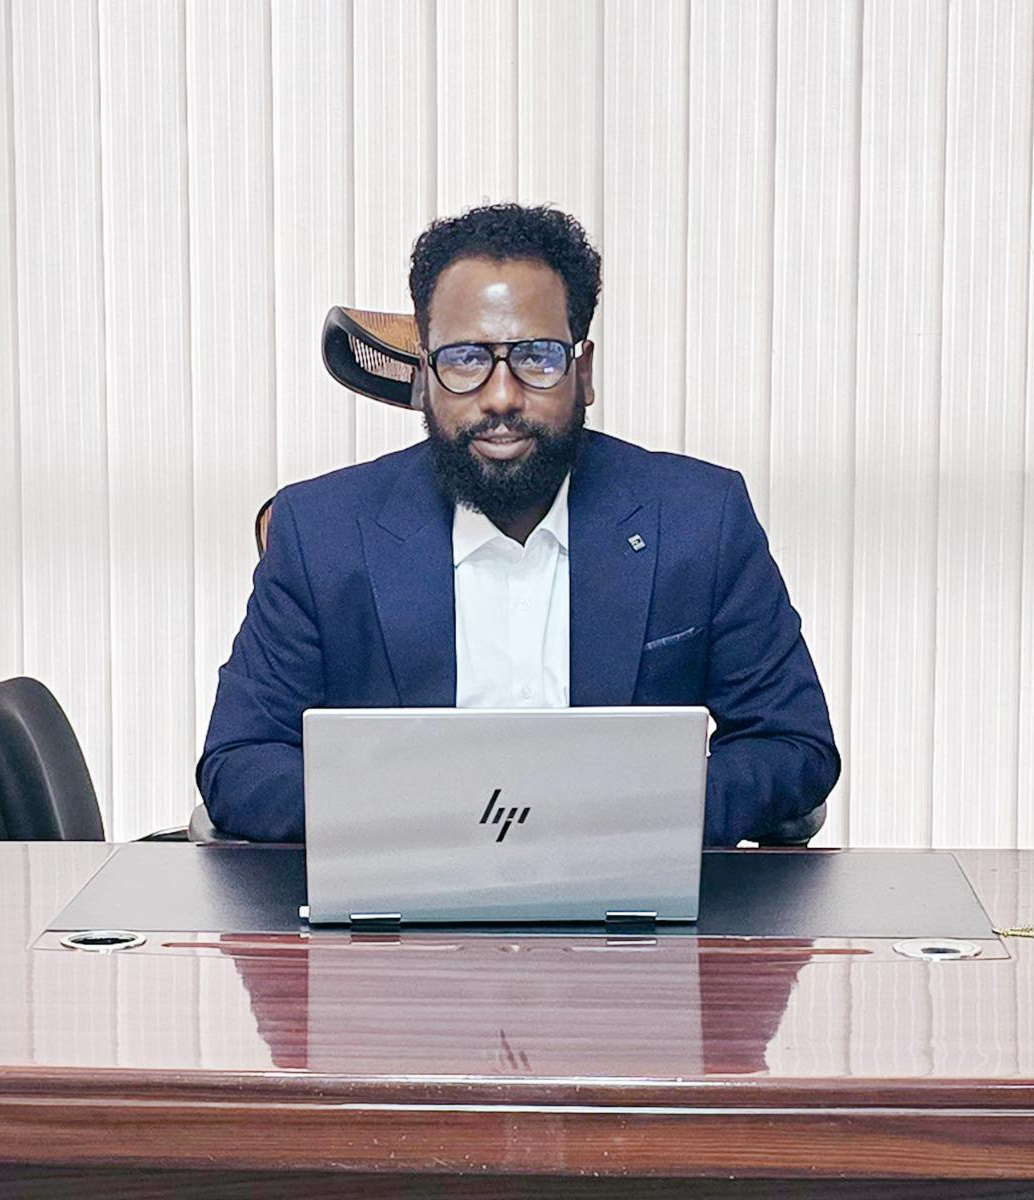
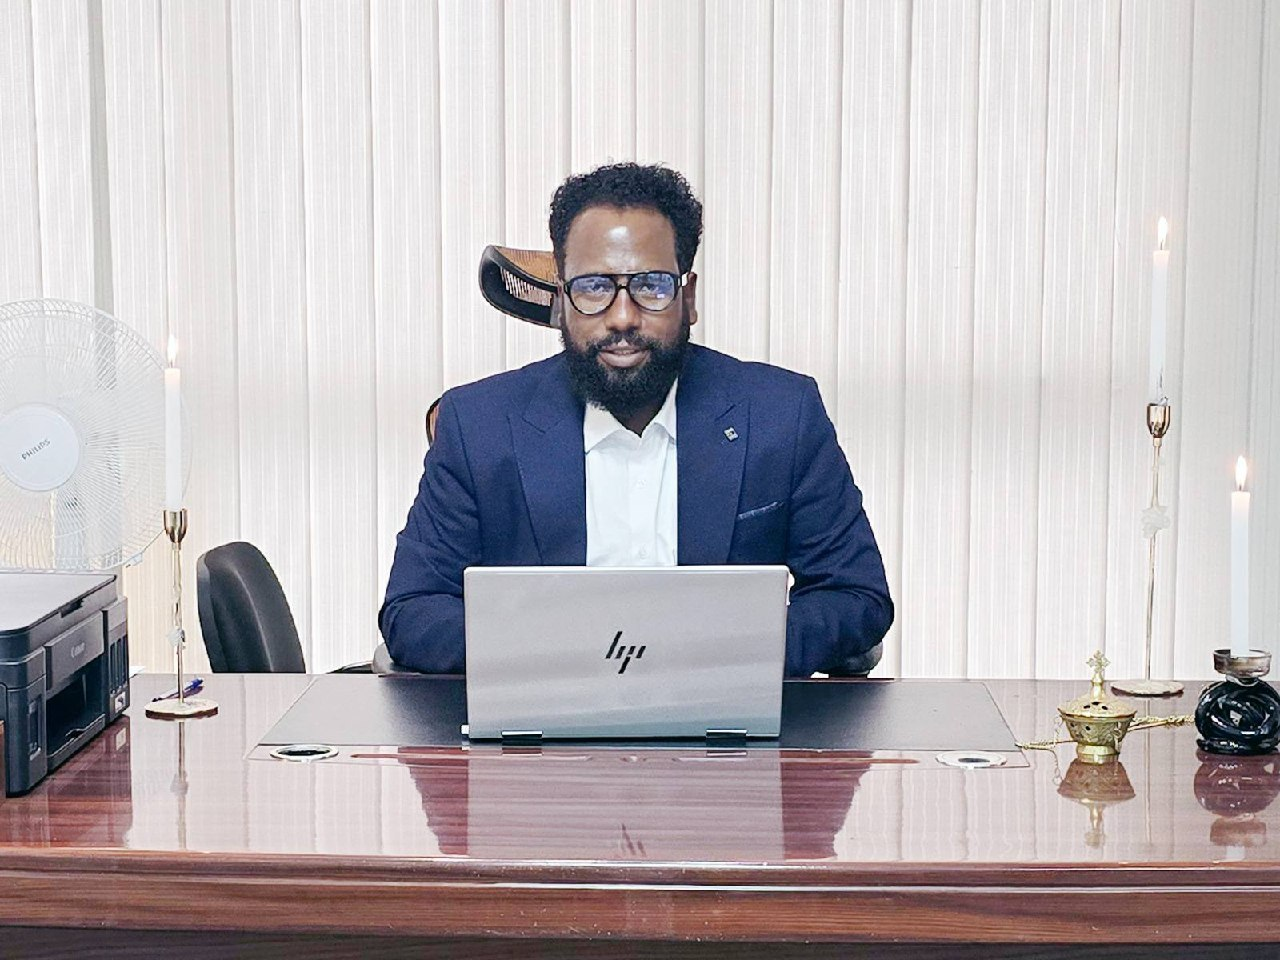
removed members

diff --git a/app/pages/gallery.vue b/app/pages/gallery.vue
@@ -9,23 +9,23 @@
     "/pal5.jpeg",
     "/pal6.jpeg",
     "/pal7.jpeg",
-    "/pal8.jpeg",
-    "/pal9.jpeg",
+    // "/pal8.jpeg",
+    // "/pal9.jpeg",
     "/pal10.jpeg",
     "/pal39.jpeg",
     "/pal11.jpeg",
     "/pal12.jpeg",
-    "/pal13.jpeg",
+    // "/pal13.jpeg",
     // "/pal14.jpg",
     "/pal15.jpeg",
-    "/pal16.jpg",
+    // "/pal16.jpg",
     "/pal17.jpg",
     "/pal18.jpeg",
     "/pal19.jpg",
-    "/pal20.jpeg",
+    // "/pal20.jpeg",
     // "/pal21.jpeg",
     // "/pal22.jpeg",
-    "/pal23.jpeg",
+    // "/pal23.jpeg",
     // "/pal24.jpeg",
     // "/pal26.jpeg",
     "/pal27.jpeg",

diff --git a/app/components/home/Services.vue b/app/components/home/Services.vue
@@ -5,7 +5,7 @@
 
   const services = [
     {
-      title: "Residential Buildings",
+      title: "Mixed Use Building",
       desc: "Private homes to multi-story apartment developments with finishing works.",
       img: "/hero55.jpg",
     },
